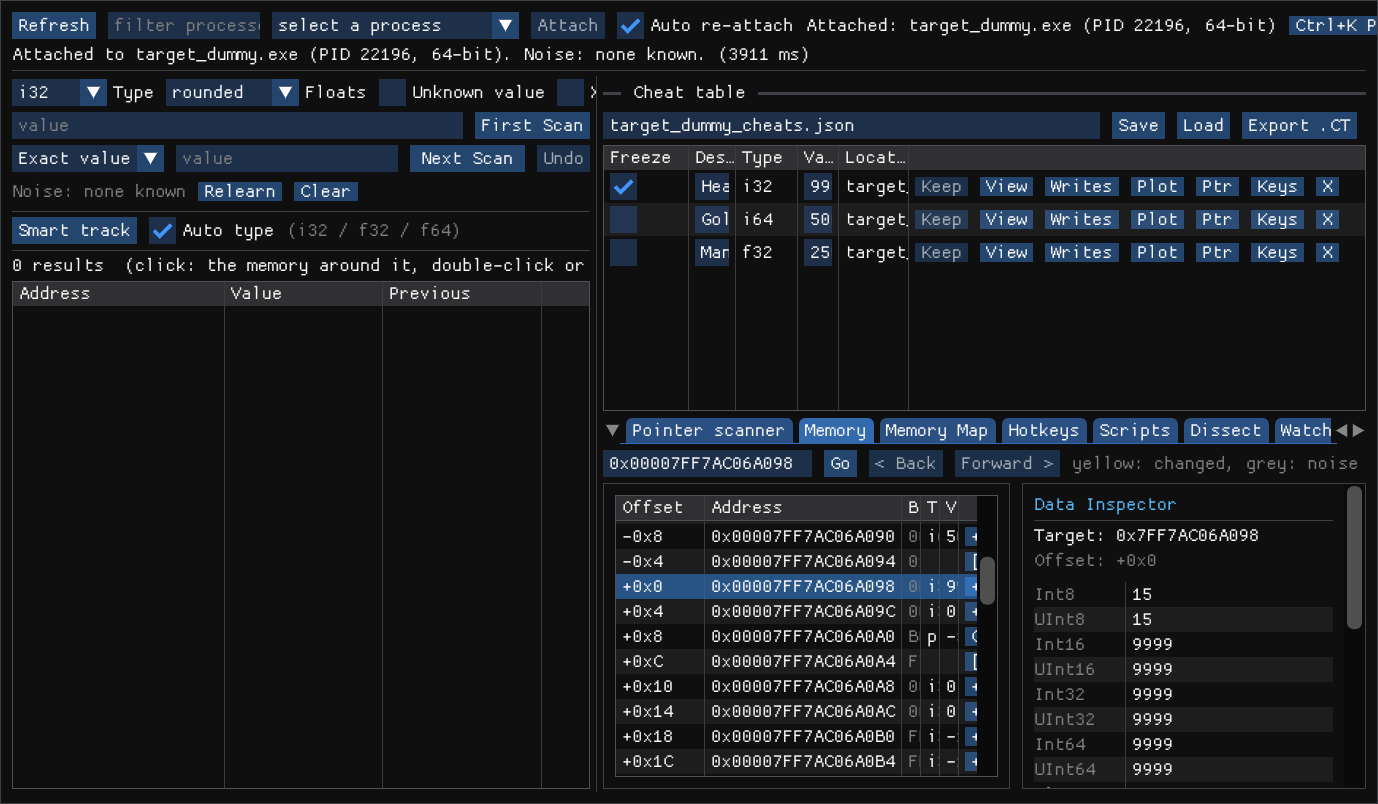
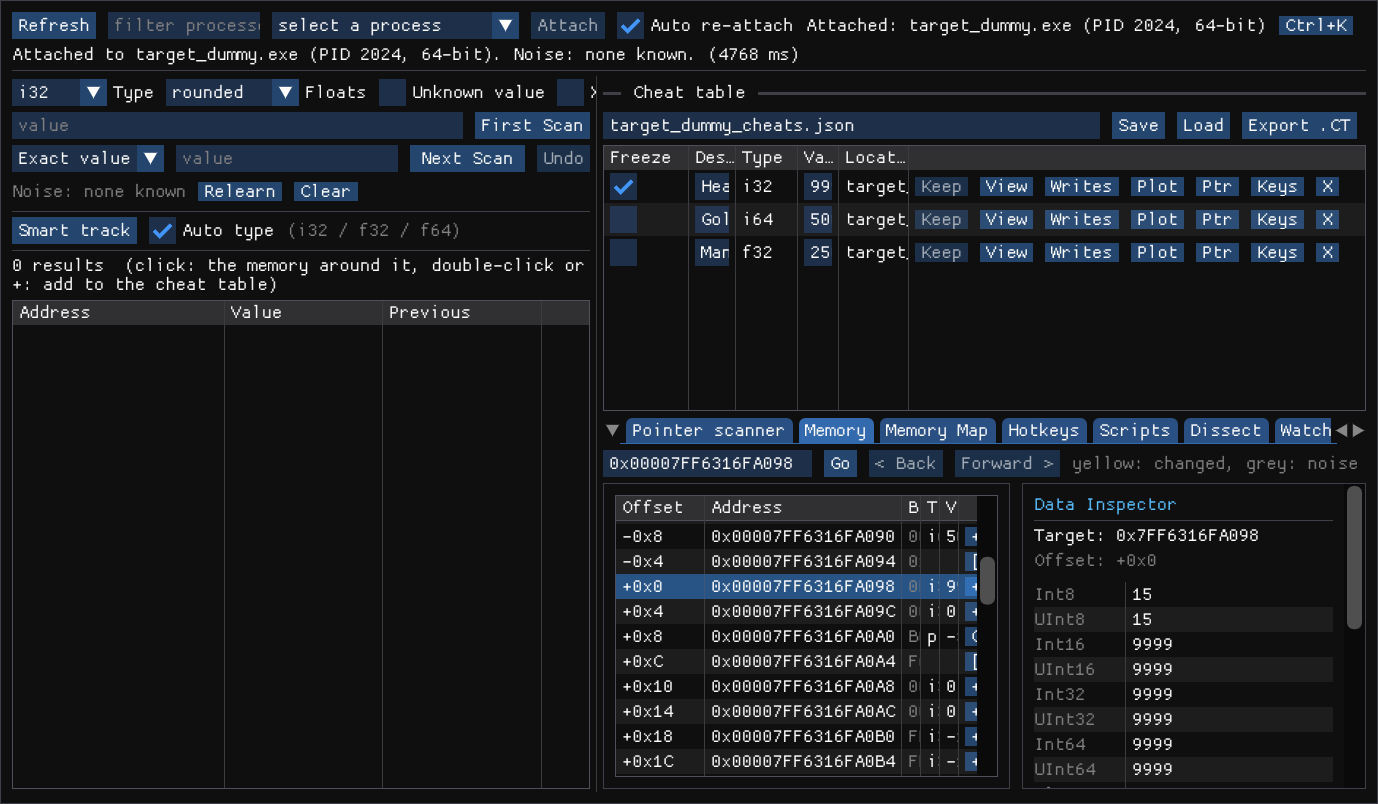
Polish GUI text clipping/Ctrl+K button and upgrade CI/Release actions to Node 24

diff --git a/gui/src/main.cpp b/gui/src/main.cpp
@@ -976,7 +976,7 @@ void draw_results(App& app) {
     }
 
     const auto& results = scans.state().results;
-    ImGui::Text("%zu results  (click: the memory around it, double-click or +: add to the cheat table)", results.count());
+    ImGui::TextWrapped("%zu results  (click: the memory around it, double-click or +: add to the cheat table)", results.count());
 
     const ImGuiTableFlags flags = ImGuiTableFlags_ScrollY | ImGuiTableFlags_RowBg | ImGuiTableFlags_BordersOuter |
                                   ImGuiTableFlags_BordersV | ImGuiTableFlags_Resizable;
@@ -4681,11 +4681,12 @@ void draw_ui(App& app) {
 
     draw_process_bar(app);
     ImGui::SameLine();
-    if (ImGui::SmallButton("Ctrl+K Palette")) {
+    if (ImGui::SmallButton("Ctrl+K")) {
         app.cmd_palette_open = true;
         app.cmd_palette_filter.clear();
         ImGui::OpenPopup("Command Palette##nce_cmd_palette");
     }
+    if (ImGui::IsItemHovered()) ImGui::SetTooltip("Open Command Palette (Ctrl+K)");
     if (ImGui::GetIO().KeyCtrl && ImGui::IsKeyPressed(ImGuiKey_K, false)) {
         app.cmd_palette_open = true;
         app.cmd_palette_filter.clear();
